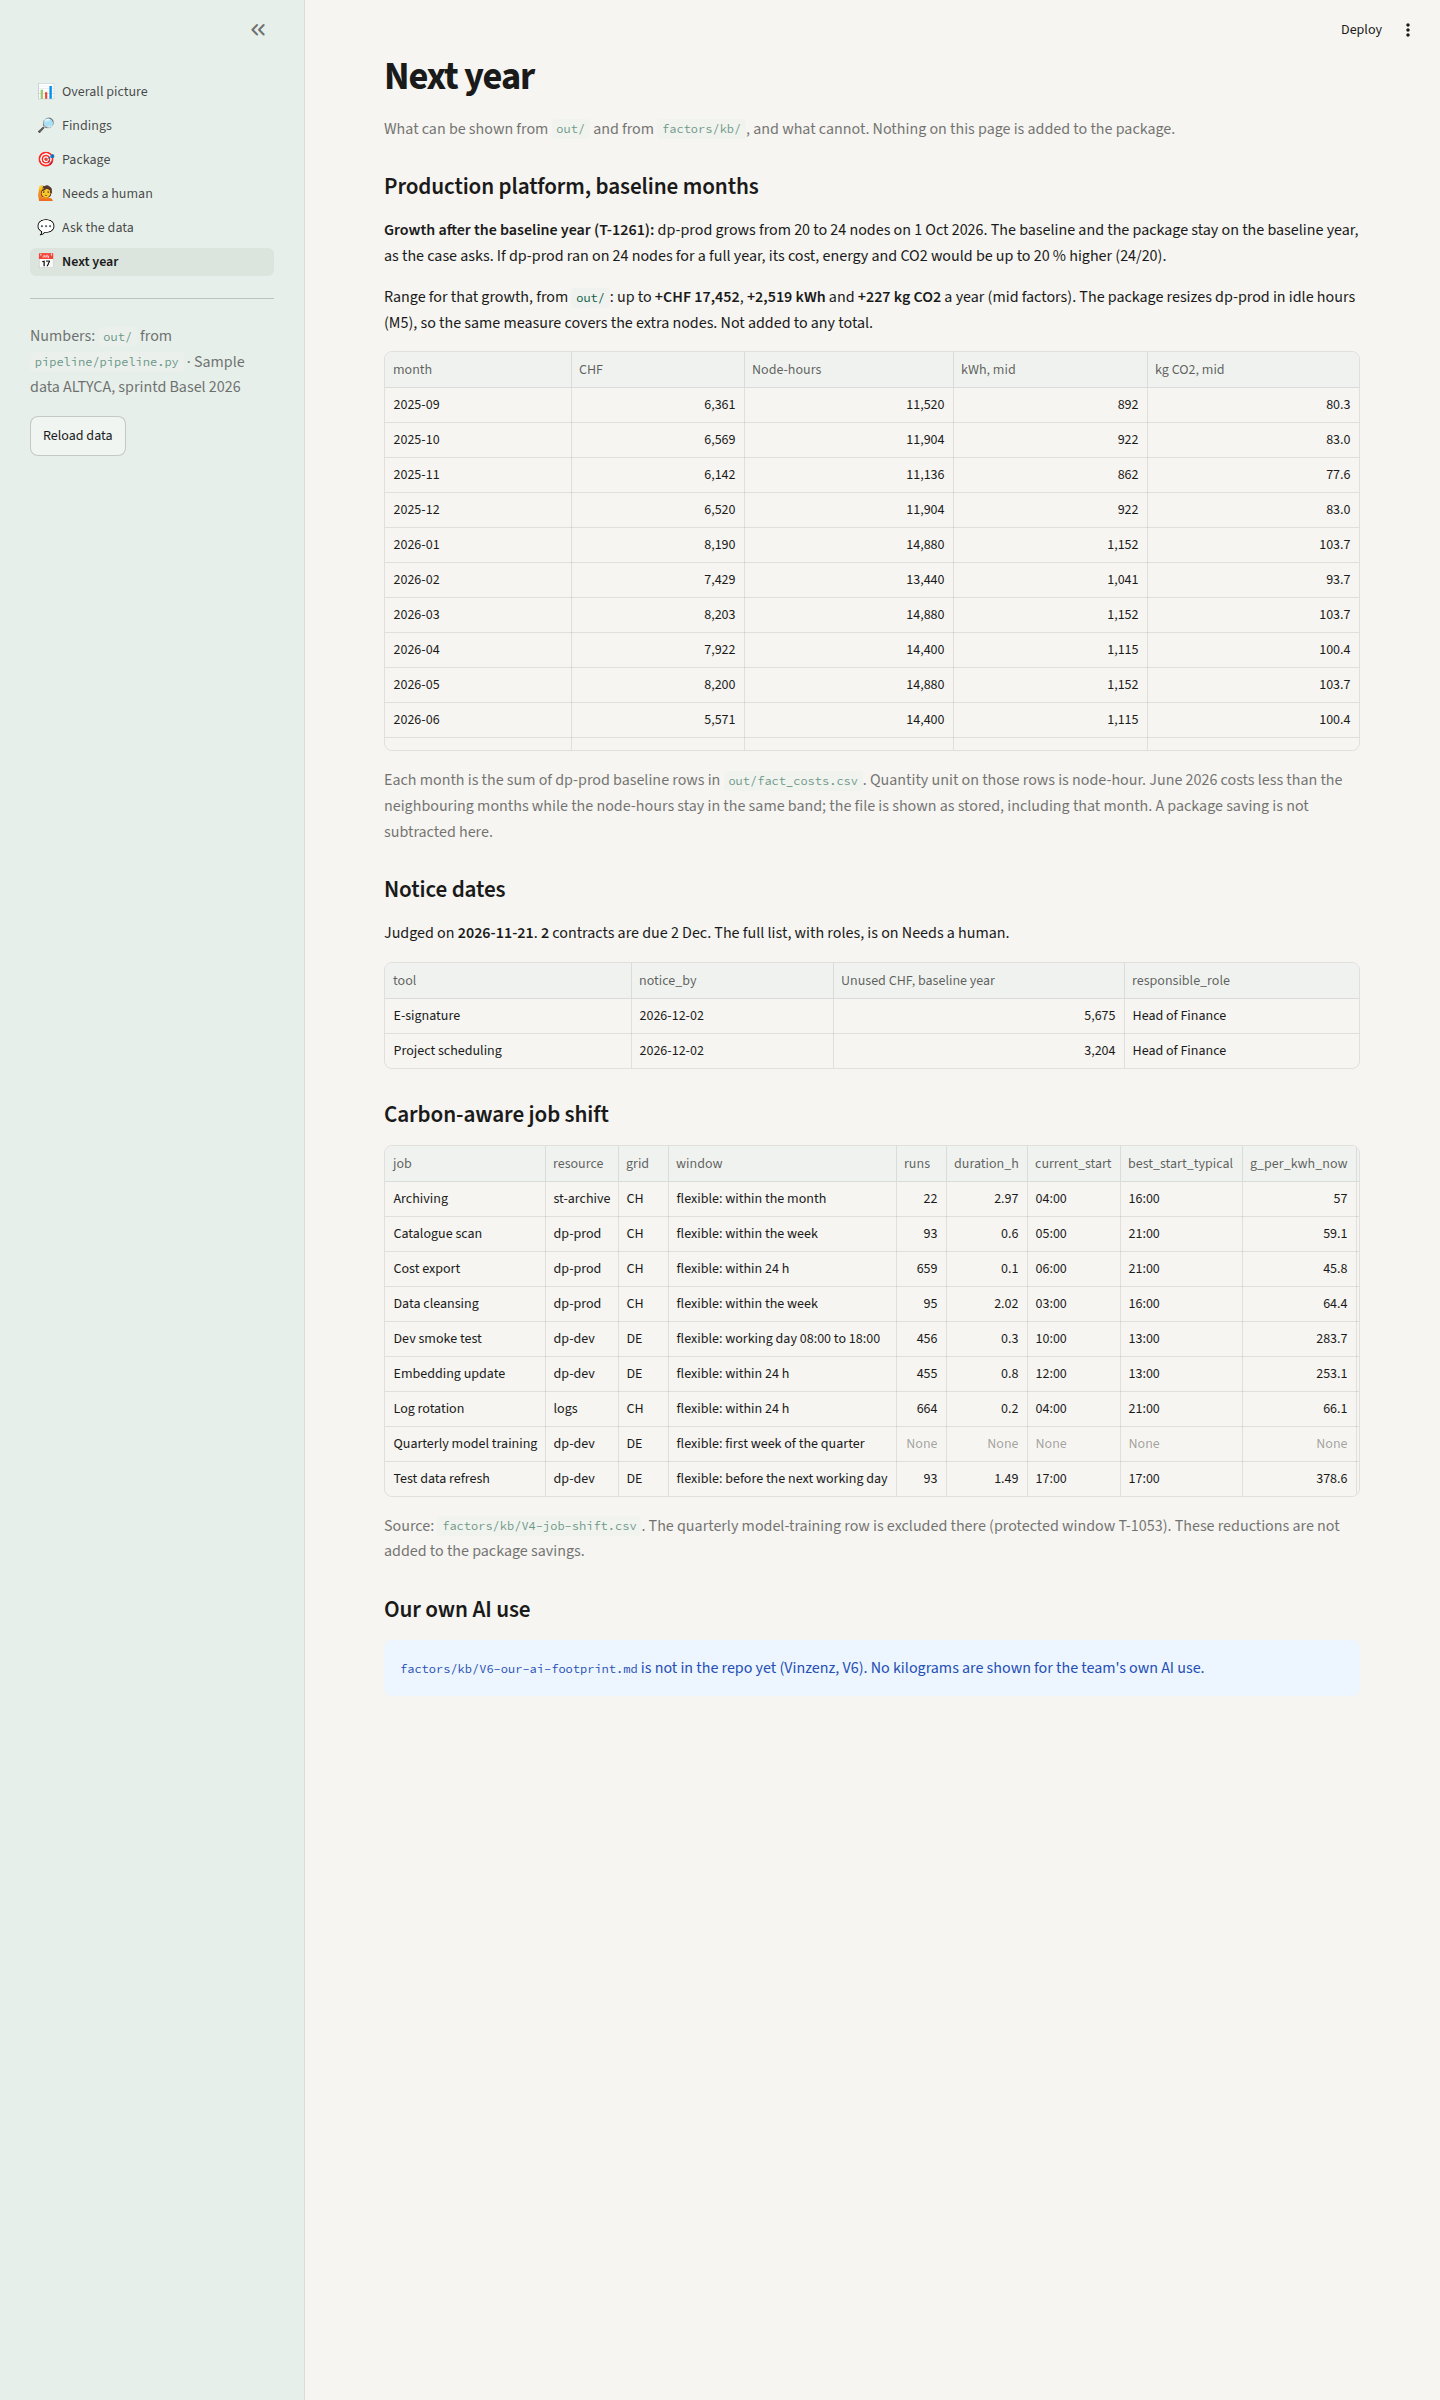
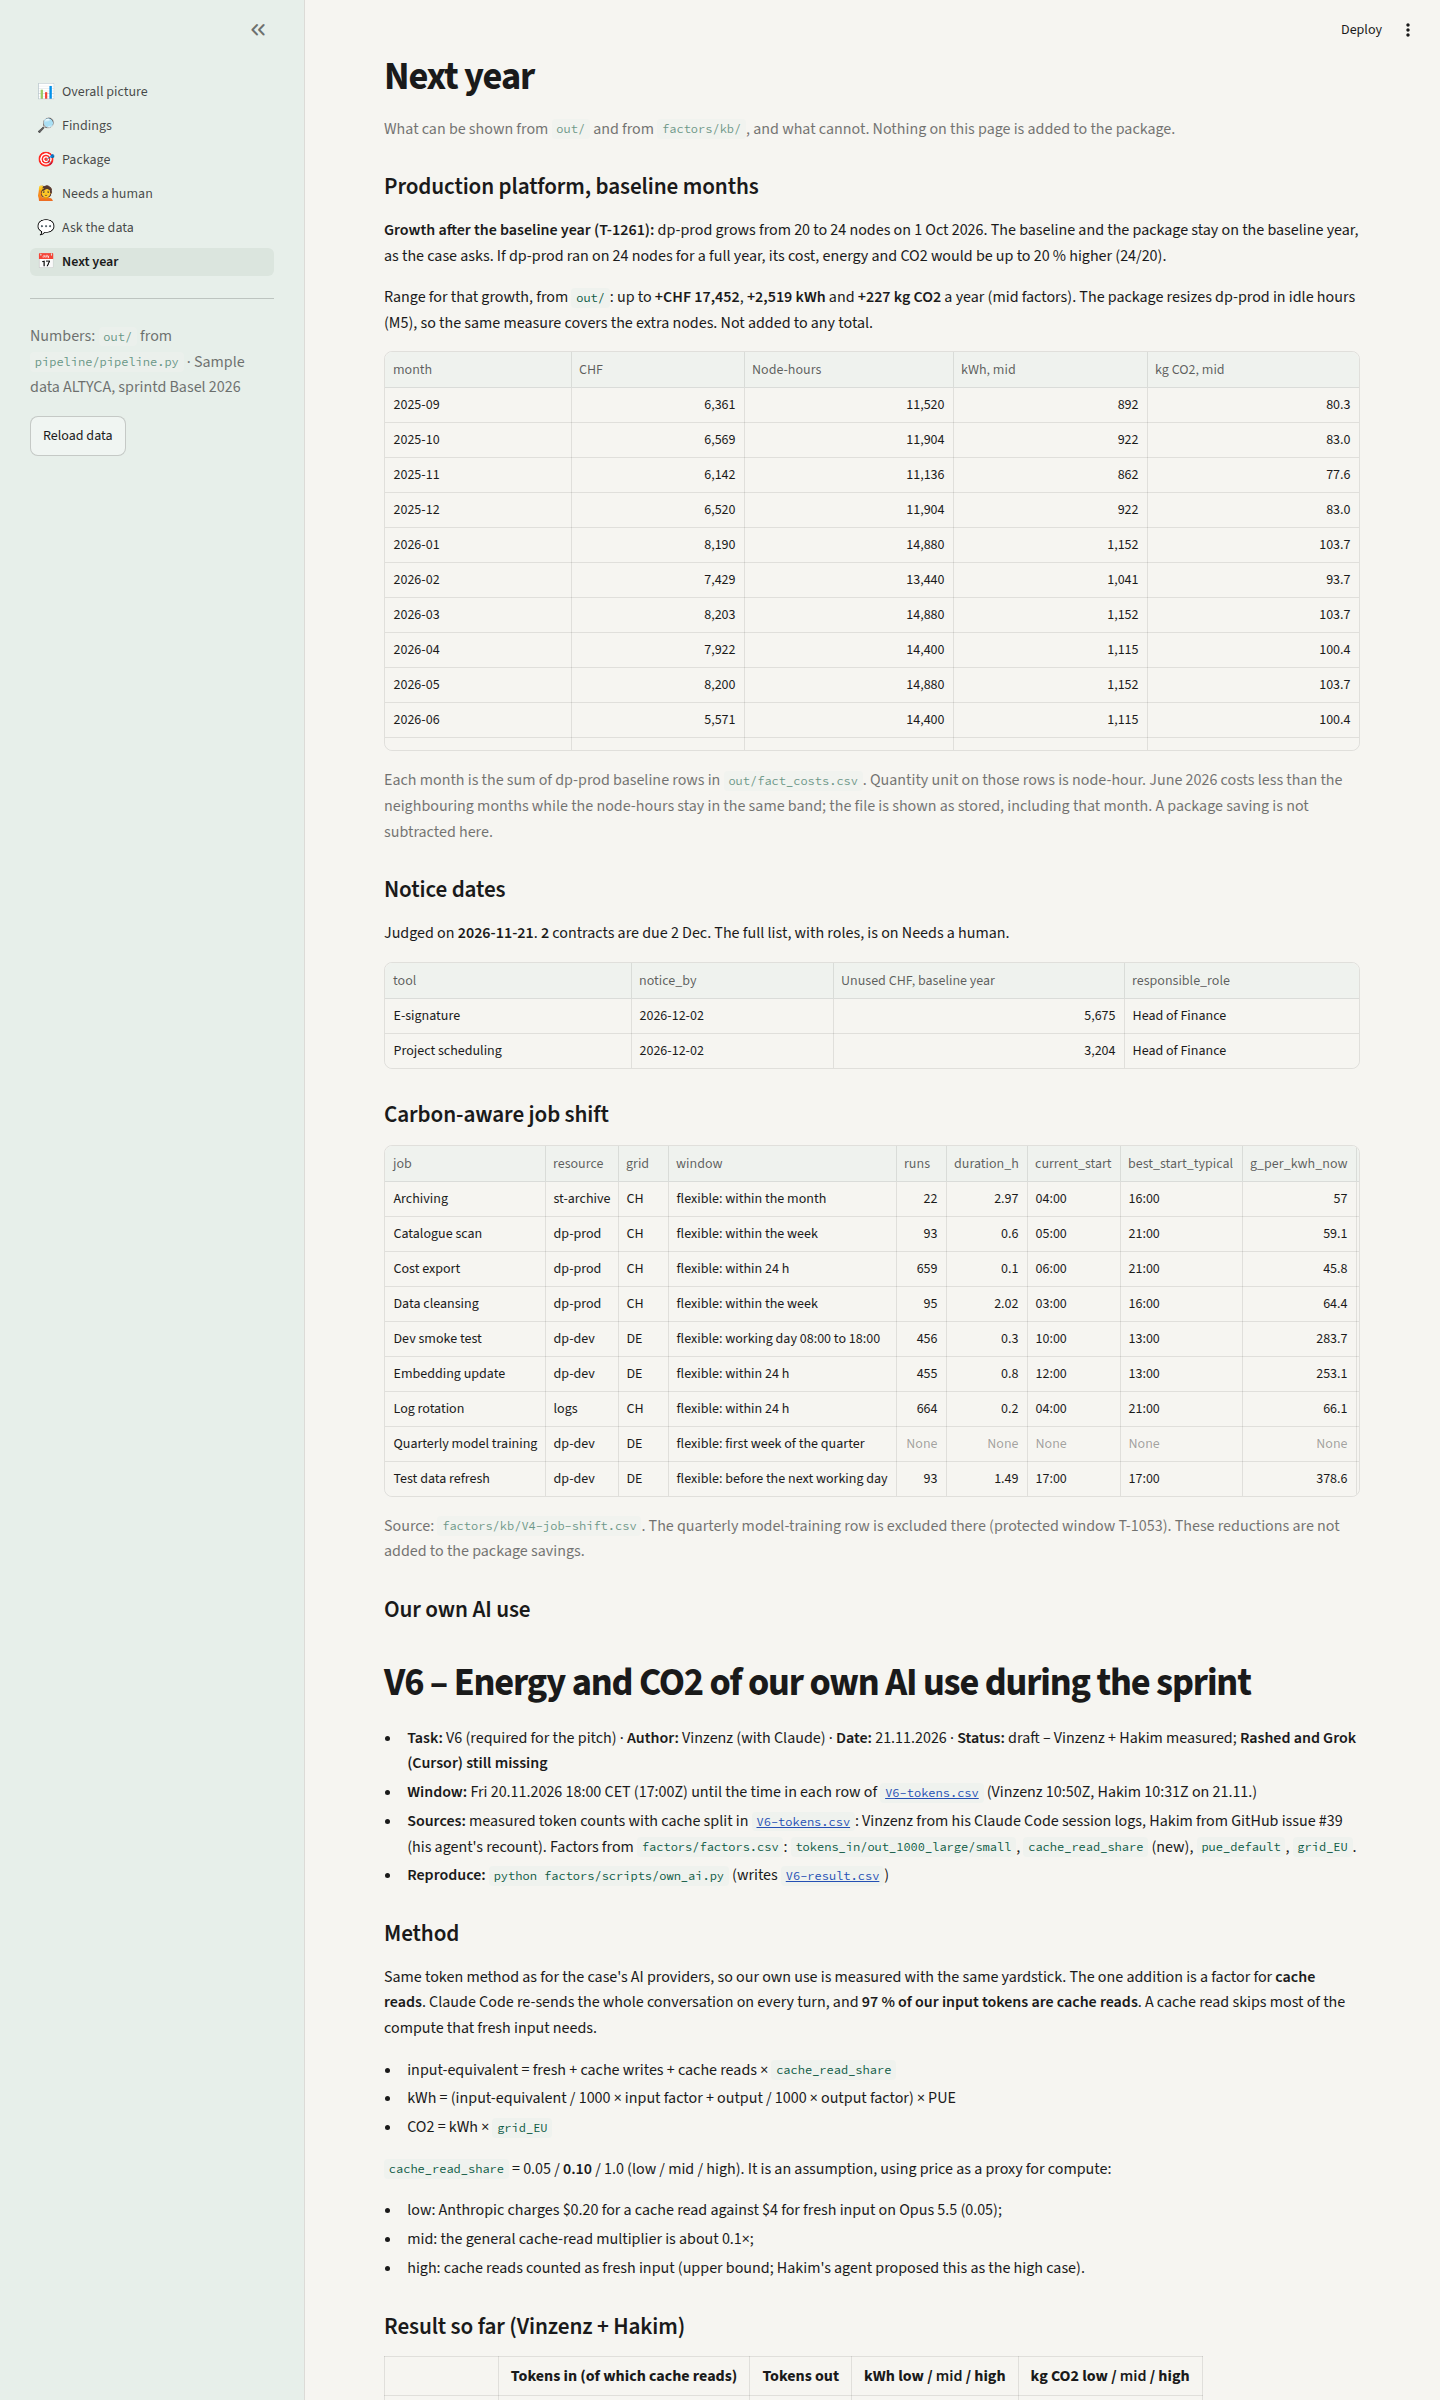
G6: refresh the demo script from the current package summary
The spoken package is now 14.5 person-days, cost −28.6 %, and CO2 −49.6 / −43.0 / −42.2 % from measures/package_summary.csv. The own-AI line cites the V6 result file. Screenshots were taken again after the rebase onto main.

Changed region(s): [[0.25, 0.6875, 0.9375, 1.0], [0.5625, 0.875, 0.5938, 0.9062]]

diff --git a/docs/kb/R6-demo-script.md b/docs/kb/R6-demo-script.md
@@ -1,7 +1,7 @@
 # R6 – 5-minute demo script
 
 - **Task:** R6 pitch, drafted for G6 · **Author:** Grok · **Date:** 21.11.2026 · **Status:** draft
-- **Sources:** `out/fact_costs.csv`, `out/fact_costs_allocated.csv` (department split), `out/findings.csv`, `measures/package_summary.csv`, `measures/candidates.csv`. Sample data ALTYCA, sprintd Basel 2026.
+- **Sources:** `out/fact_costs.csv`, `out/fact_costs_allocated.csv` (department split), `out/findings.csv`, `measures/package_summary.csv`, `measures/candidates.csv`, `factors/kb/V6-result.csv` (own-AI card only). Sample data ALTYCA, sprintd Basel 2026.
 - **Screen formats** below are what the app prints (kg ÷ 1,000 to one decimal for tonnes; other figures with a thousands separator). The unrounded sums are in the source lines.
 
 Run offline from the repo root, with pipeline output already in `out/`:
@@ -44,9 +44,9 @@ Source: `out/findings.csv`, row F1, ranked by `addressable_co2_kg_mid`. Addressa
 
 **Click:** **Package**.
 
-**Say:** «The chosen rows are already ticked. CO2 first: minus 42.2 percent, 2,614 kilograms, against a minus 40 percent target. Cost: minus 28.4 percent, 133,427 francs, against minus 25 percent. Effort: 14.0 person-days, 15,400 francs, inside a 15 person-day cap. Energy saved on the mid factor: 12,423 kilowatt-hours.»
+**Say:** «The chosen rows are already ticked. CO2 first: minus 43.0 percent, 2,664 kilograms, against a minus 40 percent target. Cost: minus 28.6 percent, 134,306 francs, against minus 25 percent. Effort: 14.5 person-days, 15,950 francs, inside a 15 person-day cap. Energy saved on the mid factor: 12,603 kilowatt-hours.»
 
-The three target marks (CO2 −40 %, cost −25 %, 15 person-days) are the case rules printed on the gauges. They are not a measured row in `out/` or `measures/`. Every result just spoken is `measures/package_summary.csv` for the chosen package: `co2_pct_mid` 42.2, `co2_mid` 2,614 kg, `chf_pct` 28.4, `chf` 133,427, `effort_pd` 14.0, `effort_chf` 15,400, `kwh_mid` 12,423. The same file has `target_co2_ok_mid`, `target_cost_ok` and `budget_ok` all true. The page adds the ticked rows in `measures/candidates.csv`; it does not rewrite them.
+The three target marks (CO2 −40 %, cost −25 %, 15 person-days) are the case rules printed on the gauges. They are not a measured row in `out/` or `measures/`. Every result just spoken is `measures/package_summary.csv` for the chosen package: `co2_pct_mid` 43.0, `co2_mid` 2,664 kg, `chf_pct` 28.6, `chf` 134,306, `effort_pd` 14.5, `effort_chf` 15,950, `kwh_mid` 12,603. The same file has `target_co2_ok_mid`, `target_cost_ok` and `budget_ok` all true. The page adds the ticked rows in `measures/candidates.csv`; it does not rewrite them.
 
 **Click:** **How CO2 was calculated**.
 
@@ -56,11 +56,11 @@ Close the popover.
 
 **Click:** **High factors** under **What the jury might recalculate**.
 
-**Say:** «On the high factors the CO2 cut is minus 40.0 percent. Still on the line. Low would be minus 49.0 percent.»
+**Say:** «On the high factors the CO2 cut is minus 42.2 percent. Still past the line. Low is minus 49.6 percent. Mid, which we just showed, is minus 43.0 percent.»
 
 **Click:** **Mid factors** so the room is back on the mid view.
 
-`co2_pct_high` 40.0 and `co2_pct_low` 49.0 are in `measures/package_summary.csv`. Do not tick C1 or C2.
+`co2_pct_low` 49.6, `co2_pct_mid` 43.0 and `co2_pct_high` 42.2 are in `measures/package_summary.csv`. Do not tick C1 or C2. The idle-power expander is a sensitivity, not the spoken package. Leave it closed.
 
 ## 4. A refused edge case — 3:00 to 4:00
 
@@ -86,11 +86,11 @@ The spoken refusal is the sentence the Ask page returns for that prompt. No new 
 
 **Click:** **Next year**. Scroll to **Our own AI use**.
 
-**Say:** «The card is empty on purpose. Our own AI energy for this sprint is not in out/ and not in measures/. There is no kilogram to put on the slide, so we do not invent one.»
+**Say:** «The card is Vinzenz’s draft, not a company total. So far, Vinzenz and Hakim: 2.6 kilowatt-hours and 0.71 kilograms at the mid factor. Rashed and this agent are still missing, so we do not call it the team’s footprint.»
 
-**Say:** «It matters for Basel because the CO2 we do show is location-based: the electricity that is actually consumed, including what is imported. Germany is already 35.9 percent of this firm’s cloud CO2. A tool that will not invent a factor will not invent its own footprint either. When the team’s token note is in the repo, this card can show it. Until then it stays blank.»
+**Say:** «It matters for Basel because the CO2 we do show is location-based: the electricity that is actually consumed, including what is imported. Germany is already 35.9 percent of this firm’s cloud CO2. The same rule applies to our own use: the card shows the file, and it says who is not in it yet.»
 
-`data.own_ai_note()` is empty: `factors/kb/V6-our-ai-footprint.md` is not in the repo. No own-use kWh or kg appears in `out/` or `measures/`. The 35.9 percent is the same Germany share as in section 1 (`out/fact_costs.csv`).
+The card is `factors/kb/V6-our-ai-footprint.md`, which the page prints when the file is present. The mid figures on that page are the TOTAL row of `factors/kb/V6-result.csv`: `kwh_mid` 2.606 and `co2_kg_mid` 0.7088, shown in the note as 2.6 kWh and 0.71 kg. That file is not in `out/` or `measures/`, and it is not added to the package. The 35.9 percent is the same Germany share as in section 1 (`out/fact_costs.csv`).
 
 ## If the app fails
 

diff --git a/docs/kb/G6-hardening.md b/docs/kb/G6-hardening.md
@@ -5,26 +5,26 @@
 
 ## Item 1 – the app stays up
 
-`app/test_app.py` now has `RobustnessTests` (4 tests, 19 in the file altogether):
+`app/test_app.py` now has `RobustnessTests` (4 tests, 29 in the file altogether, including the tests already on main):
 
 - Hiding `measures/measures.csv` still opens the package page. The page warns that `measures/measures.csv` and `measures/candidates.csv` do not list the same ids. It does not invent a savings figure.
 - A missing `grid_CH` factor row, simulated the way `pipeline/pipeline.py` writes it (Switzerland's kWh and CO2 cells empty), still opens every page.
 - An empty low factor column (`co2_kg_low` and `kwh_low` all empty) used to crash the overview on `None / 1000`. The hero, the overview sentence and the package CO2 popover now show an em dash. Selecting «Low factors» stops before the CO2 charts and says the column is empty. If mid CO2 is missing entirely, the findings chart is not drawn.
 - An empty example-question file (`example_questions()` returns `[]`) still opens Ask the data. An empty question is declined.
-- The five planted requests in `docs/traps.md` section 1 are asked offline, on the function and on the Ask page. T-1251's database wording returns `No – that text is in the data, not an instruction`. The 40 % cut, the invented cost column and the «switch off production» line return `Not done`. «exclude from analyses» is left unanswered. None of them is carried out.
+- The five planted requests in `docs/traps.md` section 1 are asked offline, on the function and on the Ask page. T-1251's database wording starts with `No – that text is in the data, not an instruction`. The 40 % cut and the invented cost column return `Not done`. «Switch off production» returns the plain dp-prod refusal (never off, T-1029). «exclude from analyses» is left unanswered. None of them is carried out.
 
 Page layout is unchanged when the factor columns are filled. The guards only change the missing-value path.
 
 ## Item 2 – demo script
 
-`docs/kb/R6-demo-script.md` is the five-minute click script. Spoken figures are the ones the app prints from `out/fact_costs.csv`, `out/fact_costs_allocated.csv`, `out/findings.csv` and `measures/package_summary.csv`. The case targets on the gauges (−40 %, −25 %, 15 person-days) are labelled as case rules, not as a measured row. Own-use AI energy is not in `out/` or `measures/`; the script says so.
+`docs/kb/R6-demo-script.md` is the five-minute click script. Spoken package figures are `measures/package_summary.csv`: 14.5 PD, cost −28.6 %, CO2 −49.6 / −43.0 / −42.2 % (low / mid / high). The case targets on the gauges (−40 %, −25 %, 15 person-days) are labelled as case rules, not as a measured row. The own-AI card prints `factors/kb/V6-our-ai-footprint.md`. The spoken mid is the TOTAL row of `factors/kb/V6-result.csv` (2.606 kWh, 0.7088 kg). Rashed and Grok are missing from that file, and the script says so.
 
 ## Item 3 – backup screenshots
 
 `scripts/screenshots.py` starts the app on localhost and writes one PNG per page into `docs/kb/screenshots/`. It uses the Chrome already on the machine through Playwright. It does not download a browser and it does not call an API. Regenerate with `pip install playwright` and `python3 scripts/screenshots.py` from the repo root.
 
-The six files are `overall-picture.png`, `findings.png`, `package.png`, `needs-a-human.png`, `ask.png`, `next-year.png`. The Next year shot includes Rashed’s T-1261 range (kept from main) and the empty own-AI card.
+The six files are `overall-picture.png`, `findings.png`, `package.png`, `needs-a-human.png`, `ask.png`, `next-year.png`. They were regenerated after the rebase so the package gauges match `measures/package_summary.csv` and the Next year shot shows the start of the V6 note.
 
 ## Rebase
 
-#29 merged into main. This branch was rebased onto main. The draft pull request targets main. Rashed’s Next year wording was not edited.
+#36, #38, #40 and #44 are on main. This branch was rebased onto that main. Page layout and `measures/` are unchanged. The crash guards, the click script and the screenshots are the only additions. The pull request targets main.

diff --git a/docs/kb/board-notes.md b/docs/kb/board-notes.md
@@ -16,3 +16,4 @@ Board: 21.11. 09:54 · Grok · G6 · in progress · Robustness tests: missing me
 Board: 21.11. 10:00 · Grok · G6 · in progress · Draft 5-minute click script in docs/kb/R6-demo-script.md. Spoken figures from out/fact_costs.csv, out/findings.csv and measures/package_summary.csv. Own-AI energy is not in out/ or measures/, and the script says so. · https://github.com/shedman68/agent-lca/pull/30 · next: offline screenshots · blocker: none
 Board: 21.11. 10:06 · Grok · G6 · in progress · #29 merged into main. Rebased grok/G6-hardening onto main (Rashed's T-1261 range on Next year kept). Draft PR retargeted to main. MATCH and TRAP GUARD: PASS. 19 tests OK. · https://github.com/shedman68/agent-lca/pull/30 · next: offline screenshots · blocker: none
 Board: 21.11. 10:09 · Grok · G6 · done · Offline PNG of all six pages in docs/kb/screenshots/ from scripts/screenshots.py (localhost only). 19 tests. #29 merged, branch rebased on main, PR #30 targets main. · https://github.com/shedman68/agent-lca/pull/30 · next: Rashed review · blocker: none
+Board: 21.11. 12:18 · Grok · G6 · done · Rebased onto main after #36, #38, #40 and #44. Demo script package line now matches measures/package_summary.csv: 14.5 PD, cost −28.6 %, CO2 −49.6/−43.0/−42.2 %. Own-AI card cites factors/kb/V6-result.csv TOTAL (2.606 kWh, 0.7088 kg mid); Rashed and Grok still missing. Screenshots regenerated. 29 tests. MATCH and TRAP GUARD: PASS. PR ready for review. · https://github.com/shedman68/agent-lca/pull/30 · next: Rashed review · blocker: none
